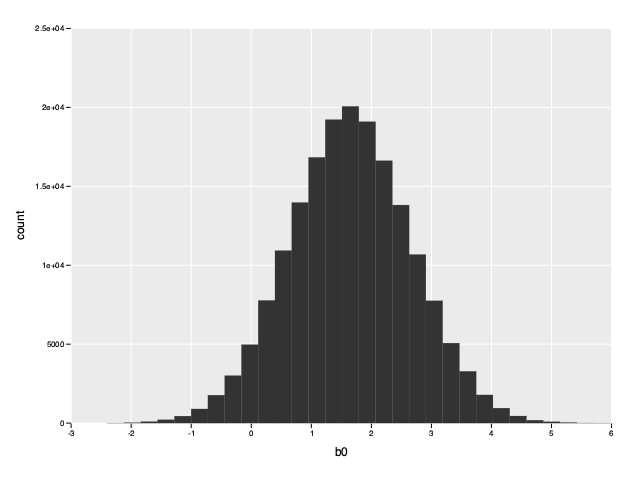
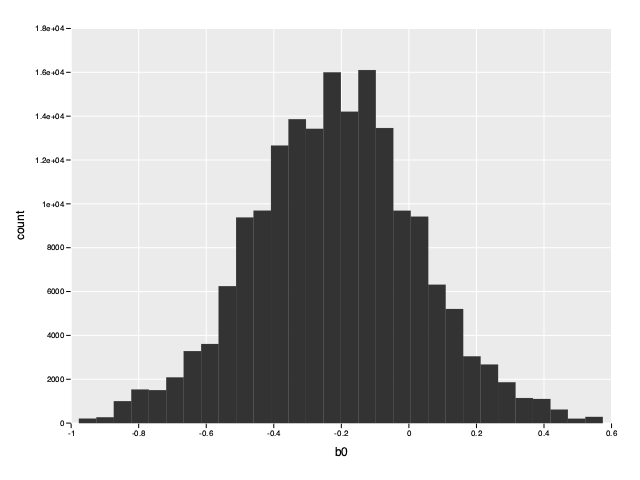
Tutorial

diff --git a/index.html b/index.html
@@ -50,15 +50,16 @@ section#source {
 <pre><code class="nim hljs"><span class="hljs-keyword">import</span>
   sequtils, random
 
+randomize()
 <span class="hljs-keyword">var</span>
   n = <span class="hljs-number">100</span>
   b0 = <span class="hljs-number">0.0</span>
   b1 = <span class="hljs-number">1.0</span>
-  sd = <span class="hljs-number">10.0</span>
+  sd = <span class="hljs-number">1.0</span>
   x = newSeq[<span class="hljs-built_in">float</span>](n)
   y = newSeq[<span class="hljs-built_in">float</span>](n)
 <span class="hljs-keyword">for</span> i <span class="hljs-keyword">in</span> <span class="hljs-number">0</span> ..&lt; n:
-  x[i] = rand(<span class="hljs-number">10.0</span> .. <span class="hljs-number">100.0</span>)
+  x[i] = rand(<span class="hljs-number">0.0</span> .. <span class="hljs-number">100.0</span>)
   y[i] = b0 + b1 * x[i] + gauss(<span class="hljs-number">0.0</span>, sd)</code></pre>
 <h4>Plot Data</h4>
 <pre><code class="nim hljs"><span class="hljs-keyword">import</span>
@@ -70,27 +71,6 @@ ggplot(sim, aes(<span class="hljs-string">&quot;x&quot;</span>, <span class="hlj
 </samp></pre>
 <figure>
 <img src="./images/simulated-data.png" alt="">
-<figcaption></figcaption>
-</figure>
-
-<h4>Rescale Data</h4>
-<pre><code class="nim hljs"><span class="hljs-keyword">import</span>
-  stats
-
-<span class="hljs-keyword">let</span>
-  meanX = mean(x)
-  sdX = standardDeviation(x)
-  meanY = mean(y)
-  sdY = standardDeviation(y)
-<span class="hljs-keyword">for</span> i <span class="hljs-keyword">in</span> <span class="hljs-number">0</span> ..&lt; n:
-  x[i] = (x[i] - meanX) / sdX
-<span class="hljs-keyword">var</span> scaled = seqsToDf(x, y)
-ggplot(scaled, aes(<span class="hljs-string">&quot;x&quot;</span>, <span class="hljs-string">&quot;y&quot;</span>)) + geom_point() +
-    ggsave(<span class="hljs-string">&quot;images/simulated-scaled-data.png&quot;</span>)</code></pre>
-<pre><samp>StatusSuccess output of write_to_png
-</samp></pre>
-<figure>
-<img src="./images/simulated-scaled-data.png" alt="">
 <figcaption></figcaption>
 </figure>
 
@@ -125,15 +105,15 @@ ggplot(scaled, aes(<span class="hljs-string">&quot;x&quot;</span>, <span class="
   sdSamples = newSeq[<span class="hljs-built_in">float</span>](nSamples + <span class="hljs-number">1</span>)
 b0Samples[<span class="hljs-number">0</span>] = <span class="hljs-number">0.0</span>
 b1Samples[<span class="hljs-number">0</span>] = <span class="hljs-number">1.0</span>
-sdSamples[<span class="hljs-number">0</span>] = <span class="hljs-number">10.0</span>
+sdSamples[<span class="hljs-number">0</span>] = <span class="hljs-number">1.0</span>
 <span class="hljs-keyword">for</span> i <span class="hljs-keyword">in</span> <span class="hljs-number">1</span> .. nSamples:
   <span class="hljs-keyword">let</span>
     prevB0 = b0Samples[i - <span class="hljs-number">1</span>]
     prevB1 = b1Samples[i - <span class="hljs-number">1</span>]
     prevSd = sdSamples[i - <span class="hljs-number">1</span>]
-    propB0 = gauss(prevB0, <span class="hljs-number">0.3</span>)
+    propB0 = gauss(prevB0, <span class="hljs-number">0.1</span>)
     propB1 = gauss(prevB1, <span class="hljs-number">0.1</span>)
-    propSd = gauss(prevSd, <span class="hljs-number">1.0</span>)
+    propSd = gauss(prevSd, <span class="hljs-number">0.1</span>)
   <span class="hljs-keyword">if</span> propSd &gt; <span class="hljs-number">0.0</span>:
     <span class="hljs-keyword">var</span>
       prevLogPost = logPosterior(x = x, y = y, b0 = prevB0, b1 = prevB1,
@@ -156,16 +136,19 @@ sdSamples[<span class="hljs-number">0</span>] = <span class="hljs-number">10.0</
 <h4>Burnin</h4>
 <pre><code class="nim hljs"><span class="hljs-keyword">let</span> burnin = (nSamples.<span class="hljs-built_in">float</span> * <span class="hljs-number">0.1</span> + <span class="hljs-number">1</span>).<span class="hljs-built_in">int</span></code></pre>
 <h4>Posterior means</h4>
-<pre><code class="nim hljs"><span class="hljs-keyword">let</span>
+<pre><code class="nim hljs"><span class="hljs-keyword">import</span>
+  stats
+
+<span class="hljs-keyword">let</span>
   meanB0 = mean(b0Samples[burnin ..^ <span class="hljs-number">1</span>])
   meanB1 = mean(b1Samples[burnin ..^ <span class="hljs-number">1</span>])
   meanSd = mean(sdSamples[burnin ..^ <span class="hljs-number">1</span>])
 <span class="hljs-keyword">echo</span> meanB0
 <span class="hljs-keyword">echo</span> meanB1
 <span class="hljs-keyword">echo</span> meanSd</code></pre>
-<pre><samp>1.652850906502341
-1.647119211199815
-55.01298677372461
+<pre><samp>-0.2186593643404479
+1.003584071791399
+1.065344512936642
 </samp></pre>
 <h2>Highest density interval</h2>
 <pre><code class="nim hljs"><span class="hljs-keyword">import</span>
@@ -192,9 +175,9 @@ sdSamples[<span class="hljs-number">0</span>] = <span class="hljs-number">10.0</
 <span class="hljs-keyword">echo</span> b0HdiMin, <span class="hljs-string">&quot; &quot;</span>, b0HdiMax
 <span class="hljs-keyword">echo</span> b1HdiMin, <span class="hljs-string">&quot; &quot;</span>, b1HdiMax
 <span class="hljs-keyword">echo</span> sdHdiMin, <span class="hljs-string">&quot; &quot;</span>, sdHdiMax</code></pre>
-<pre><samp>-0.2965523662883977 3.67256537621587
--0.2069804880218909 3.586017670926502
-47.17979942681236 62.83816179955868
+<pre><samp>-0.7248780823432855 0.2659169870363585
+0.9957896379180181 1.011517249481638
+0.9204724991353965 1.219589602026548
 </samp></pre>
 <h2>Histograms</h2>
 <pre><code class="nim hljs"><span class="hljs-keyword">let</span>
@@ -286,15 +269,16 @@ $ p(\beta_{0}, \beta_{1}, \tau | y) \propto p(y|\beta_{0}, \beta_{1}, \tau) p(\b
 &quot;&quot;&quot;</span>
 nbCode:
   <span class="hljs-keyword">import</span> sequtils, random 
+  randomize()
   <span class="hljs-keyword">var</span> 
     n = <span class="hljs-number">100</span>
     b0 = <span class="hljs-number">0.0</span>
     b1 = <span class="hljs-number">1.0</span>
-    sd = <span class="hljs-number">10.0</span>
+    sd = <span class="hljs-number">1.0</span>
     x = newSeq[<span class="hljs-built_in">float</span>](n)
     y = newSeq[<span class="hljs-built_in">float</span>](n)
   <span class="hljs-keyword">for</span> i <span class="hljs-keyword">in</span> <span class="hljs-number">0</span> ..&lt; n: 
-    x[i] = rand(<span class="hljs-number">10.0</span>..<span class="hljs-number">100.0</span>) 
+    x[i] = rand(<span class="hljs-number">0.0</span>..<span class="hljs-number">100.0</span>) 
     y[i] = b0 + b1 * x[i] + gauss(<span class="hljs-number">0.0</span>, sd) 
 
 
@@ -308,26 +292,6 @@ nbCode:
     geom_point() +
     ggsave(<span class="hljs-string">&quot;images/simulated-data.png&quot;</span>)
 nbImage(<span class="hljs-string">&quot;images/simulated-data.png&quot;</span>)
-
-
-nbText: <span class="hljs-string">md&quot;&quot;&quot;
-#### Rescale Data
-&quot;&quot;&quot;</span>
-nbCode:
-  <span class="hljs-keyword">import</span> stats
-  <span class="hljs-keyword">let</span> 
-    meanX = mean(x) 
-    sdX = standardDeviation(x)
-    meanY = mean(y) 
-    sdY = standardDeviation(y)
-  <span class="hljs-keyword">for</span> i <span class="hljs-keyword">in</span> <span class="hljs-number">0</span> ..&lt; n:
-    x[i] = (x[i] - meanX) / sdX 
-  <span class="hljs-keyword">var</span> scaled = seqsToDf(x, y)
-  ggplot(scaled, aes(<span class="hljs-string">&quot;x&quot;</span>, <span class="hljs-string">&quot;y&quot;</span>)) +
-    geom_point() +
-    ggsave(<span class="hljs-string">&quot;images/simulated-scaled-data.png&quot;</span>)
-nbImage(<span class="hljs-string">&quot;images/simulated-scaled-data.png&quot;</span>)
-
 
 
 nbText: <span class="hljs-string">md&quot;&quot;&quot;
@@ -378,16 +342,16 @@ nbCode:
 
   b0Samples[<span class="hljs-number">0</span>] = <span class="hljs-number">0.0</span>  
   b1Samples[<span class="hljs-number">0</span>] = <span class="hljs-number">1.0</span> 
-  sdSamples[<span class="hljs-number">0</span>] = <span class="hljs-number">10.0</span> 
+  sdSamples[<span class="hljs-number">0</span>] = <span class="hljs-number">1.0</span> 
   
   <span class="hljs-keyword">for</span> i <span class="hljs-keyword">in</span> <span class="hljs-number">1.</span>.nSamples:
     <span class="hljs-keyword">let</span> 
       prevB0 = b0Samples[i-<span class="hljs-number">1</span>]
       prevB1 = b1Samples[i-<span class="hljs-number">1</span>]
       prevSd = sdSamples[i-<span class="hljs-number">1</span>]
-      propB0 = gauss(prevB0, <span class="hljs-number">0.3</span>) 
+      propB0 = gauss(prevB0, <span class="hljs-number">0.1</span>) 
       propB1 = gauss(prevB1, <span class="hljs-number">0.1</span>)
-      propSd = gauss(prevSd, <span class="hljs-number">1.0</span>)
+      propSd = gauss(prevSd, <span class="hljs-number">0.1</span>)
     <span class="hljs-keyword">if</span> propSd &gt; <span class="hljs-number">0.0</span>:
       <span class="hljs-keyword">var</span>
         prevLogPost = logPosterior(x=x, y=y, b0=prevB0, b1=prevB1, sd=prevSd) 
@@ -407,7 +371,6 @@ nbCode:
       sdSamples[i] = prevSd  
 
 
-
 nbText: <span class="hljs-string">md&quot;&quot;&quot;
 #### Burnin
 &quot;&quot;&quot;</span>
@@ -419,6 +382,7 @@ nbText: <span class="hljs-string">md&quot;&quot;&quot;
 #### Posterior means
 &quot;&quot;&quot;</span>
 nbCode:
+  <span class="hljs-keyword">import</span> stats
   <span class="hljs-keyword">let</span>
     meanB0 = mean(b0Samples[burnin..^<span class="hljs-number">1</span>])
     meanB1 = mean(b1Samples[burnin..^<span class="hljs-number">1</span>])
@@ -460,6 +424,7 @@ nbCode:
   <span class="hljs-keyword">echo</span> b1HdiMin, <span class="hljs-string">&quot; &quot;</span>, b1HdiMax
   <span class="hljs-keyword">echo</span> sdHdiMin, <span class="hljs-string">&quot; &quot;</span>, sdHdiMax
 
+
 nbText: <span class="hljs-string">md&quot;&quot;&quot;
 ## Histograms
 &quot;&quot;&quot;</span>
@@ -471,6 +436,7 @@ nbCode:
       <span class="hljs-string">&quot;b0&quot;</span>:b0Samples[burnin..^<span class="hljs-number">1</span>],
       <span class="hljs-string">&quot;b1&quot;</span>:b1Samples[burnin..^<span class="hljs-number">1</span>],
       <span class="hljs-string">&quot;sd&quot;</span>:sdSamples[burnin..^<span class="hljs-number">1</span>]})
+
   ggplot(df, aes(x=<span class="hljs-string">&quot;ixs&quot;</span>, y=<span class="hljs-string">&quot;b0&quot;</span>)) + 
     geom_line() +
     ggsave(<span class="hljs-string">&quot;images/samples-b0.png&quot;</span>)
@@ -485,7 +451,6 @@ nbCode:
 nbImage(<span class="hljs-string">&quot;images/samples-b0.png&quot;</span>)
 nbImage(<span class="hljs-string">&quot;images/samples-b1.png&quot;</span>)
 nbImage(<span class="hljs-string">&quot;images/samples-sd.png&quot;</span>)
-
 
 
 nbText: <span class="hljs-string">md&quot;&quot;&quot;
